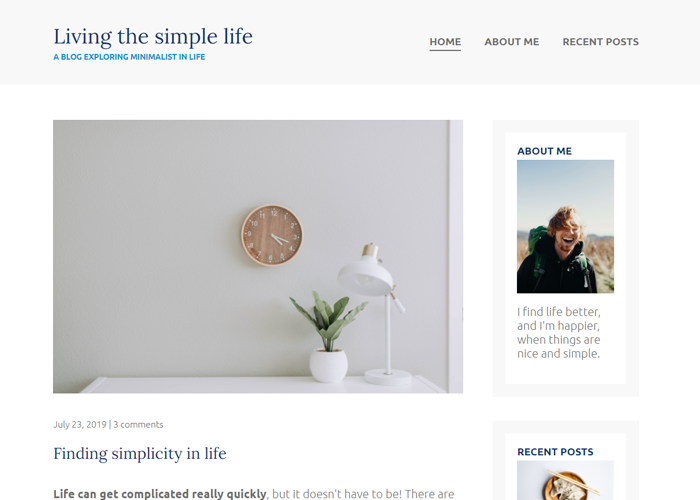
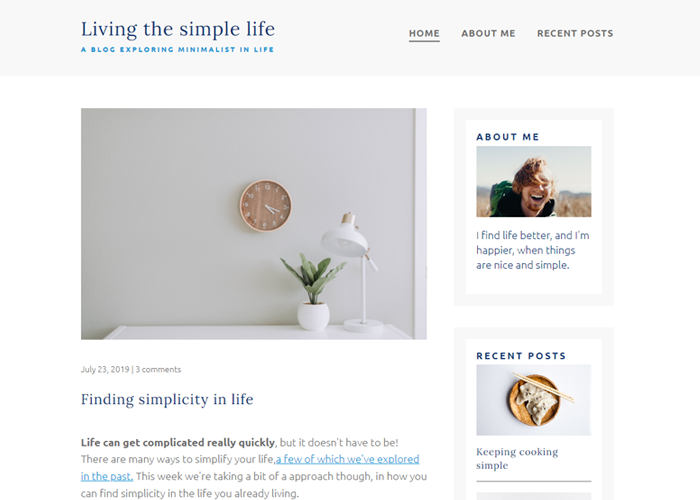
font changes

diff --git a/recent-posts.html b/recent-posts.html
@@ -41,7 +41,7 @@
                 </div>
                 <div class="article-recent-secondary">
                     <img src="./img/samantha-gades-BlIhVfXbi9s-unsplash.jpg" alt="food" class="article-image">
-                    <p class="article-info">July 19, 2019 | 3 comments</p>
+                    <p class="article-info">July 29, 2022 | 3 comments</p>
                 </div>
             </article>
 
@@ -53,7 +53,7 @@
                 </div>
                 <div class="article-recent-secondary">
                     <img src="./img/charlesdeluvio-D-vDQMTfAAU-unsplash.jpg" alt="food" class="article-image">
-                    <p class="article-info">July 19, 2019 | 3 comments</p>
+                    <p class="article-info">July 19, 2022 | 3 comments</p>
                 </div>
             </article>
             <article class="article-recent">
@@ -64,7 +64,7 @@
                 </div>
                 <div class="article-recent-secondary">
                     <img src="./img/bench-accounting-nvzvOPQW0gc-unsplash.jpg" alt="desk" class="article-image">
-                    <p class="article-info">July 12, 2019 | 3 comments</p>
+                    <p class="article-info">July 12, 2022 | 3 comments</p>
                 </div>
             </article>
             <article class="article-recent">
@@ -75,7 +75,7 @@
                 </div>
                 <div class="article-recent-secondary">
                     <img src="./img/sarah-dorweiler-x2Tmfd1-SgA-unsplash.jpg" alt="flower" class="article-image">
-                    <p class="article-info">July 3, 2019 | 3 comments</p>
+                    <p class="article-info">July 3, 2022 | 3 comments</p>
                 </div>
             </article>
         </main>
@@ -109,7 +109,7 @@
     <!-- footer -->
     <footer>
         <p><span>Living the Simple Life</span></p>
-                <p>Copyright 2019</p>
+                <p>Copyright 2022</p>
     </footer>
 </body>
 </html>

diff --git a/index.css b/index.css
@@ -13,6 +13,7 @@ body {
 	color: var(--light-gray);
 	margin: 0;
 	font-weight: 300;
+	line-height: 1.6;
 }
 
 img {
@@ -50,6 +51,7 @@ h3 {
 	font-weight: 400;
 	color: var(--blue);
 	margin-top: 0;
+	letter-spacing: 1px;
 }
 
 h1 {
@@ -75,9 +77,13 @@ a:focus {
 	color: var(--light-blue);
 	text-transform: uppercase;
 	margin: 0;
-	margin-top: .4em;
 	font-weight: 700;
 	font-size: .75rem;
+	letter-spacing: 2.7px;
+}
+
+h1 {
+	letter-spacing: 1px;
 }
 
 .article-title {
@@ -94,6 +100,7 @@ a:focus {
 	text-decoration: none;
 	font-weight: 700;
 	text-transform: uppercase;
+	letter-spacing: 2px;
 }
 
 .article-read-more:hover,
@@ -124,6 +131,7 @@ nav a {
 	text-decoration: none;
 	color: inherit;
 	padding: .25rem 0;
+	letter-spacing: 1px;
 }
 
 nav a:hover,
@@ -195,11 +203,11 @@ nav a:focus {
 	}
 
 	main {
-		width: 70%;
+		width: 65%;
 	}
 
 	aside {
-		width: 25%;
+		width: 30%;
 		min-width: 200px;
 		margin-left: 1em;
 	}
@@ -251,6 +259,8 @@ nav a:focus {
 	font-size: 1rem;
 	text-transform: uppercase;
 	margin-bottom: .3em;
+	line-height: 1.3;
+	letter-spacing: 3px;
 }
 
 .widget-recent-post {
@@ -263,7 +273,8 @@ nav a:focus {
 	margin-top: 1em;
 	font-size: 1rem;
 	order: 8;
-	font-weight: 700;
+	/* font-weight: 700; */
+	line-height: 1.4;
 }
 
 .widget-recent-post:last-child {
@@ -272,15 +283,22 @@ nav a:focus {
 }
 
 .widget-image {
+	object-fit: cover;
+	width: 100%;
+	max-height: 120px;
 	order: 0;
 	margin-bottom: 0;
 }
 
+.widget-body {
+	color: var(--blue);
+	line-height: 1.4;
+}
 /* footer */
 
 footer {
 	background: var(--blue);
-	color: white;
+	color: rgba(255, 255, 255, .75);
 	text-align: center;
 	padding: 3em 0;
 	margin-top: 2em;

diff --git a/index.html b/index.html
@@ -49,7 +49,7 @@
             </div>
             <div class="article-recent-secondary">
                 <img src="./img/charlesdeluvio-D-vDQMTfAAU-unsplash.jpg" alt="food" class="article-image">
-                <p class="article-info">July 19, 2019 | 3 comments</p>
+                <p class="article-info">July 19, 2022 | 3 comments</p>
             </div>
         </article>
         <article class="article-recent">
@@ -60,7 +60,7 @@
             </div>
             <div class="article-recent-secondary">
                 <img src="./img/bench-accounting-nvzvOPQW0gc-unsplash.jpg" alt="desk" class="article-image">
-                <p class="article-info">July 12, 2019 | 3 comments</p>
+                <p class="article-info">July 12, 2022 | 3 comments</p>
             </div>
         </article>
         <article class="article-recent">
@@ -71,7 +71,7 @@
             </div>
             <div class="article-recent-secondary">
                 <img src="./img/sarah-dorweiler-x2Tmfd1-SgA-unsplash.jpg" alt="flower" class="article-image">
-                <p class="article-info">July 3, 2019 | 3 comments</p>
+                <p class="article-info">July 6, 2022 | 3 comments</p>
             </div>
         </article>
     </main>
@@ -105,7 +105,7 @@
 <!-- footer -->
 <footer>
     <p><span>Living the Simple Life</span></p>
-            <p>Copyright 2019</p>
+            <p>Copyright 2022</p>
 </footer>
 </body>
 </html>

diff --git a/about-me.html b/about-me.html
@@ -79,7 +79,7 @@
 <!-- footer -->
 <footer>
     <p><span>Living the Simple Life</span></p>
-            <p>Copyright 2019</p>
+            <p>Copyright 2022</p>
 </footer>
 </body>
 </html>

diff --git a/README.md b/README.md
@@ -5,6 +5,6 @@
 
 ![Homepage](/img/github/home.png)
 
-***About Me***
+***Recent Posts***
 
-![AboutMe](/img/github/about-me.png)
+![RecentPosts](/img/github/recent-posts.png)
